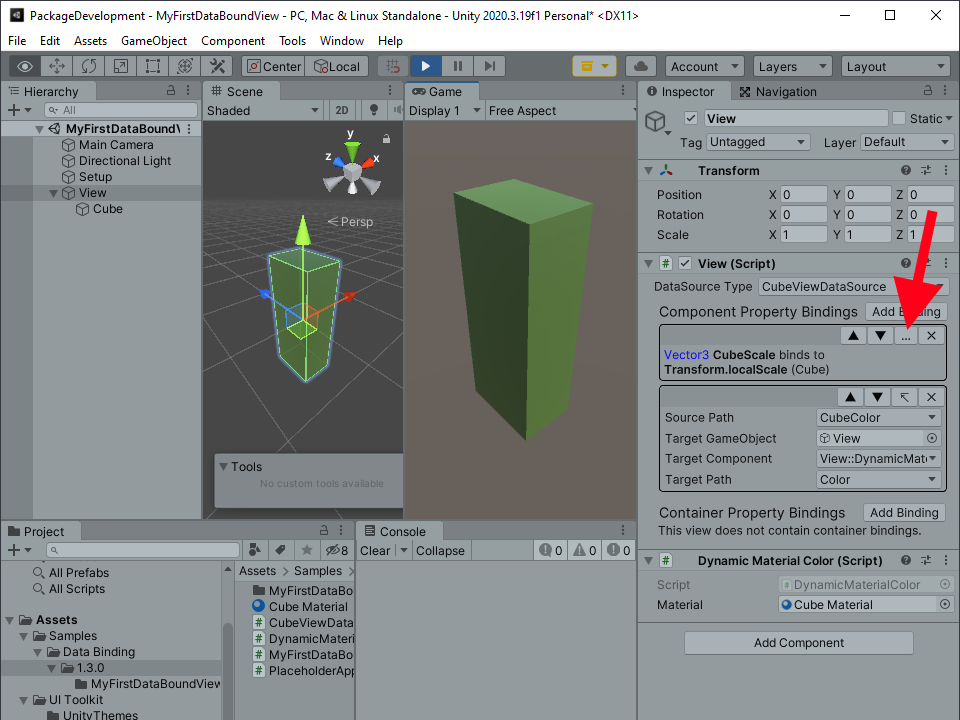
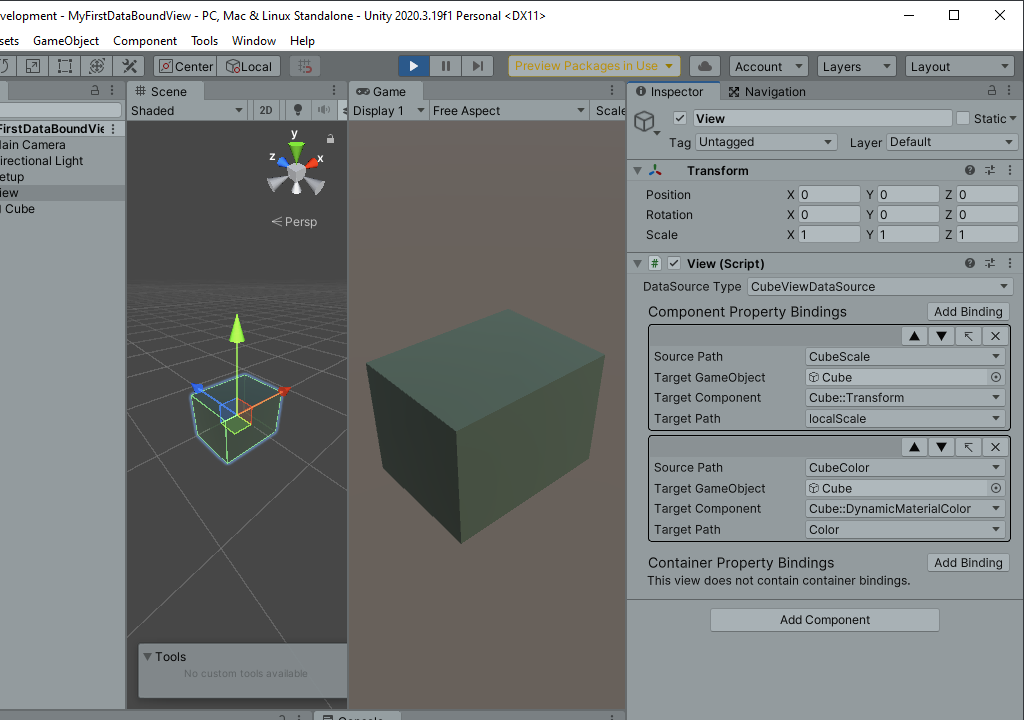
Improves MyFirstDataBoundView example

diff --git a/Samples~/UIToolkit/MyFirstDataBoundView/DynamicMaterialColor.cs b/Samples~/UIToolkit/MyFirstDataBoundView/DynamicMaterialColor.cs
@@ -7,7 +7,8 @@ public class DynamicMaterialColor : MonoBehaviour
     {
         set
         {
-            material.color = value;
+            var meshRenderer = GetComponent<MeshRenderer>();
+            meshRenderer.material.color = value;
         }
     }
 }

diff --git a/README.md b/README.md
@@ -141,14 +141,15 @@ With DataBinding you will always have your application logic separated from your
 
   public class DynamicMaterialColor : MonoBehaviour
   {
-    public Material material;
-    public Color Color
-    {
-        set
-        {
-            material.color = value;
-        }
-    }
+      public Material material;      
+      public Color Color
+      {
+          set
+          {
+              var meshRenderer = GetComponent<MeshRenderer>();
+              meshRenderer.material.color = value;
+          }
+      }
   }
 
   ```
@@ -173,8 +174,7 @@ In a real world scenario we would not *hard code* this relation but generate the
   Type "View" into the search bar. Add a View Component.
 - Choose CubeViewDataSource as the DataSource Type for this view.
 - On the View component add two component property bindings by clicking the Add Binding button twice.
-- Add a DynamicMaterialColor Component.
-- Drag the Cube Material onto the Material Property field of the DynamicMaterialColor Component.
+- Add a DynamicMaterialColor Component to the CubeGameObject.
   
 ![Setup](Documentation~/Images/ViewInspector01.png)
 
@@ -185,8 +185,8 @@ In a real world scenario we would not *hard code* this relation but generate the
   - For the ***Target Component*** choose ***Cube::Transform***
   - The ***Target Path*** will be ***localScale***
   - Select the ***Source Path*** for the second binding to be ***CubeColor***
-  - The ***Target GameObject*** will be the ***View*** GameObject itself.
-  - For the ***Target Component*** choose ***View::DynamicMaterialColor***
+  - The ***Target GameObject*** will be the ***Cube*** GameObject.
+  - For the ***Target Component*** choose ***Cube::DynamicMaterialColor***
   - And finally the ***Target Path*** will be ***Color***
 
   If the component property binding is valid, it will collapse to a condensed text description. You can toggle expanded and collapsed view
